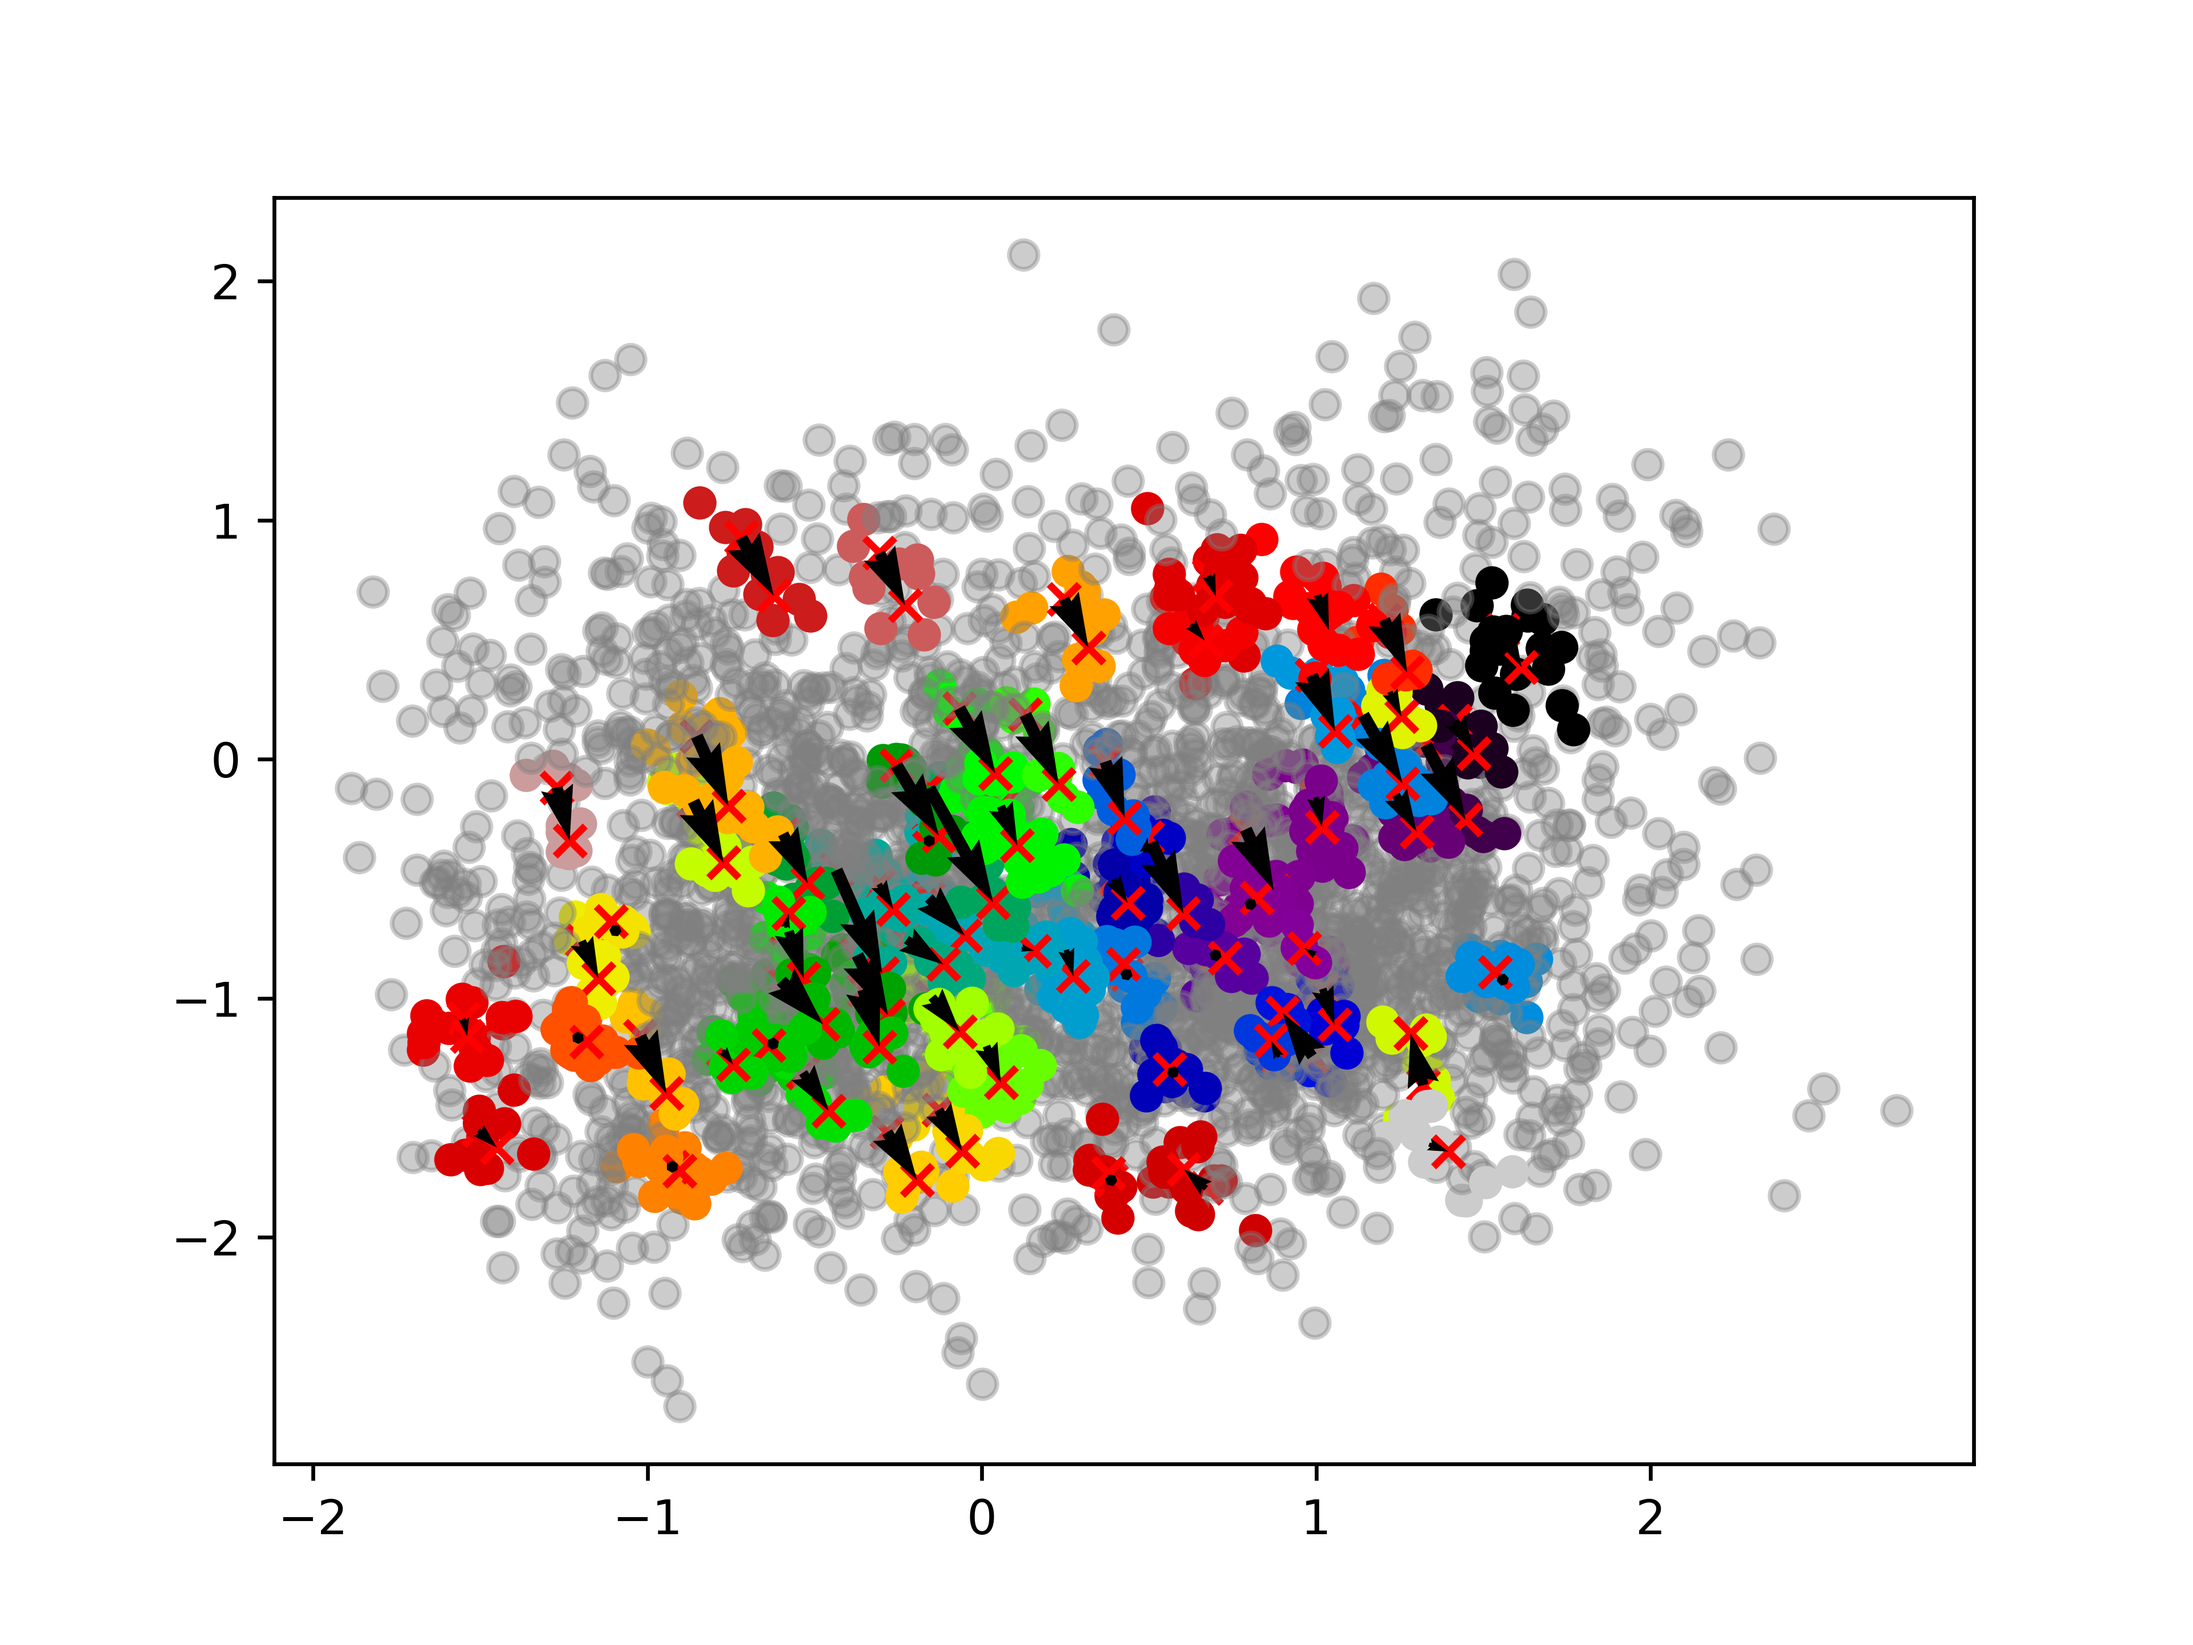
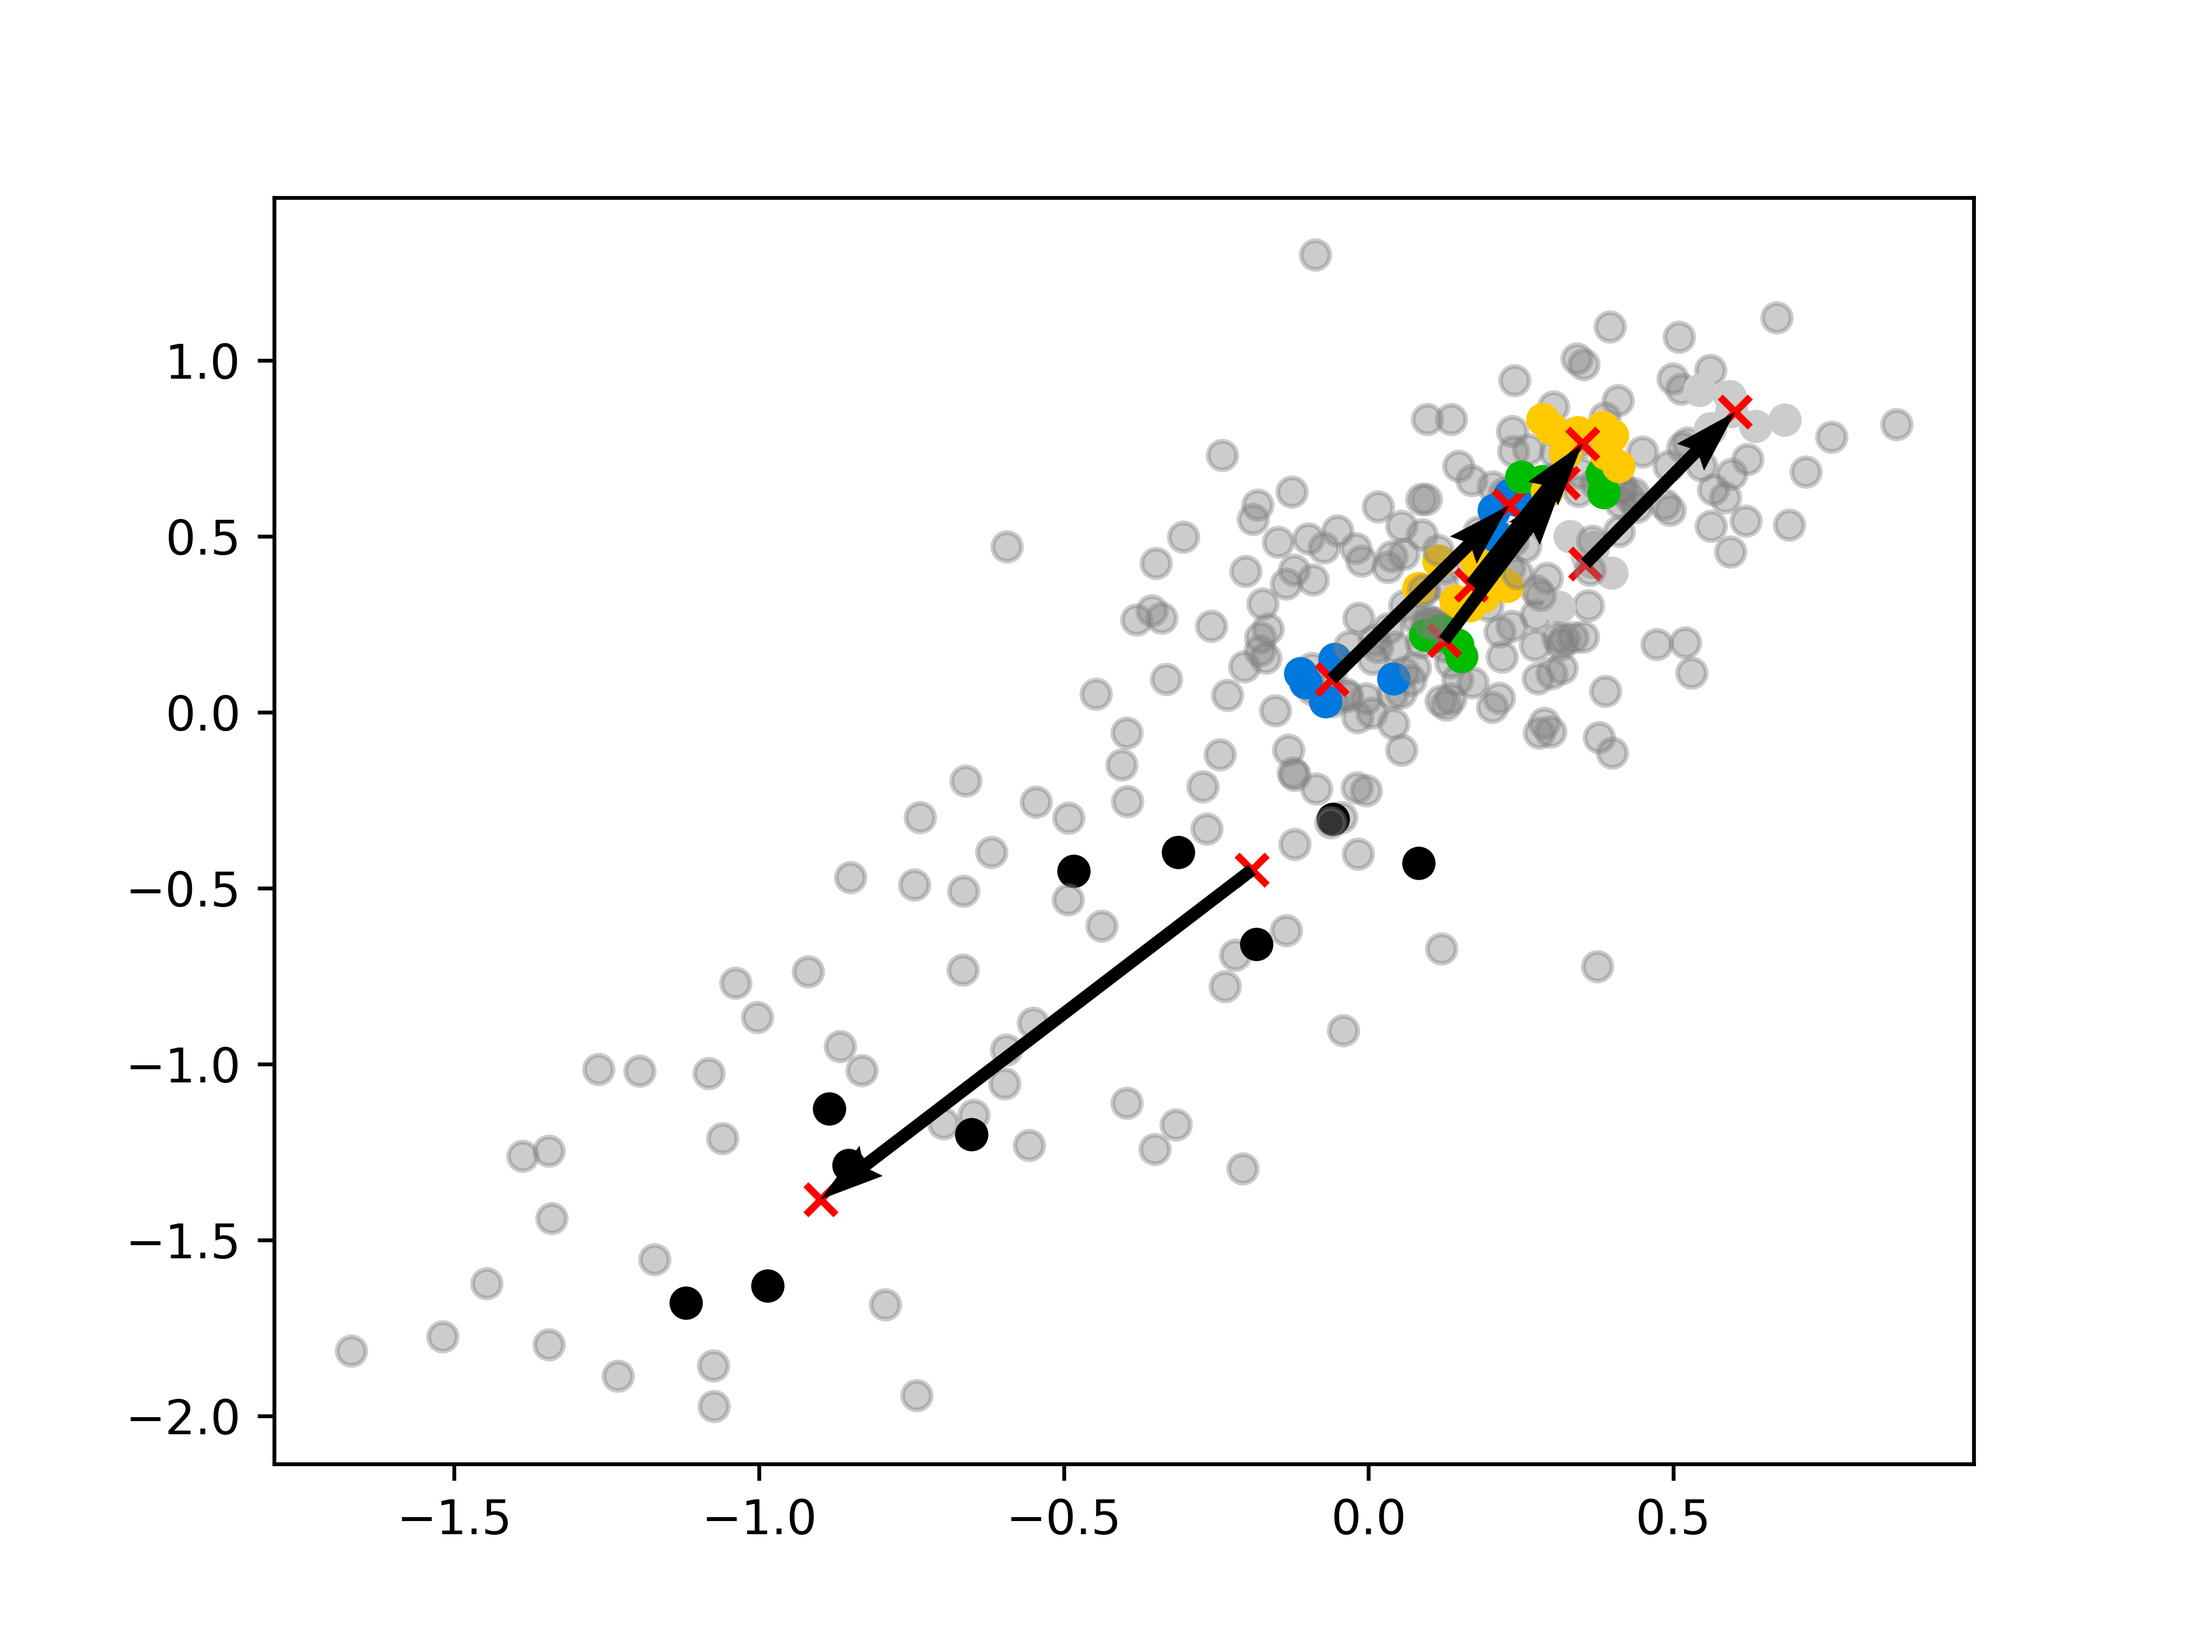
Review cluster plots

diff --git a/latex/thesis.tex b/latex/thesis.tex
@@ -852,11 +852,9 @@ $\hat{V}_0 = V_0 = E[(x_0-\hat{x}_0)(x_0-\hat{x}_0)^T]$  \;
 
 In this section we analyse the results from fittomg our model on $15947$ alien species invasions from $1850$ to $2010$, as described in Section \ref{sec:dataset}. In the dataset there are $1724$ species and $153$ regions. To report the results in the most clear way, we decided to distinguish the region and spaces nodes in the latent space. In Fig. \ref{fig:latentspace_config} the initial and final configuration of the latent space are reported for species and regions. 
 
-%TODO plot of just a couple of nodes to show trajectories  
-Unfortunately, due to the high number of nodes, it is hard to see the evolution of the latent space. In Fig. we focus on a set of ...
+Unfortunately, due to the high number of nodes, it is hard to see the evolution of the latent space. In Fig. \ref{fig:latentspace_afew} we focus on a set of 25 randomly chosen nodes to highlight the dynamics of nodes in the latent space. The nodes that tend to have a similar behaviour (i.e. have the tendency to co-invade) will move towards each other. In contrast, nodes that express a contrary behaviour will push each other further. The black arrows show the trajectory in time. There are 17 timesteps in total (the years from 1850 to 2010). Some trajectories are linear and others are elliptic. Species that move with the same trajectory in the latent space will have a tendency to co-invade regions, similarly, regions that move with the same trajectory are more likely to be invaded by the same group of species.
 
 \begin{figure}[ht] 
-  \label{ fig7} 
   \begin{minipage}[b]{0.5\linewidth}
     \centering
     \includegraphics[width=\linewidth]{latentspace_species.png} 
@@ -871,10 +869,24 @@ Unfortunately, due to the high number of nodes, it is hard to see the evolution 
 \label{fig:latentspace_config}
 \end{figure}
 
-In Fig. \ref{fig:trajectories_species} and \ref{fig:trajectories_region} the trajectories in the latent space by 100 randomly selected species and regions are reported. A in-depth look at these trajectories suggest that there are patterns in the movements of region and species in the latent space. We now focus our interest into analysing these clusters. 
 
-%TODO our findings are in agreement with lady's paper
-%The number of alien species found in a particular region. Both plants and insects were significantly affected by the number of species that have already invaded a certain region. However, whereas plants were recorded more frequently in regions already invaded by other plants, insects were less frequently recorded in regions that had already been invaded by other in- sects. The effects were nonetheless very small in both cases, i.e., affecting the hazard by 0.3% per invasion in the opposite direction.
+\begin{figure}[ht] 
+  \label{ fig7} 
+  \begin{minipage}[b]{0.5\linewidth}
+    \centering
+    \includegraphics[width=\linewidth]{latentspace_afew_species.png} 
+    \vspace{4ex}
+  \end{minipage}%%
+  \begin{minipage}[b]{0.5\linewidth}
+    \centering
+    \includegraphics[width=\linewidth]{latentspace_afew_region.png} 
+    \vspace{4ex}
+  \end{minipage}  
+\caption{A set of 25 randomly chosen species (left) and regions (right) and their dynamics in the latent space.}
+\label{fig:latentspace_afew}
+\end{figure}
+
+In Fig. \ref{fig:trajectories_species} and \ref{fig:trajectories_region} the trajectories in the latent space by 100 randomly selected species and regions are reported. A in-depth look at these trajectories suggest that there are patterns in the movements of region and species in the latent space. We now focus our interest into analysing these clusters. 
 
 \begin{figure}[H]
     \centering
@@ -915,6 +927,10 @@ Applying OPTICS to the species and regions in the latent space detected 67 clust
 \label{fig:cluster_density}
 \end{figure}
 
+
+%TODO our findings are in agreement with lady's paper
+%The number of alien species found in a particular region. Both plants and insects were significantly affected by the number of species that have already invaded a certain region. However, whereas plants were recorded more frequently in regions already invaded by other plants, insects were less frequently recorded in regions that had already been invaded by other in- sects. The effects were nonetheless very small in both cases, i.e., affecting the hazard by 0.3% per invasion in the opposite direction.
+
 %TODO
 %\begin{figure}[H]
 %    \centering
@@ -927,7 +943,7 @@ Applying OPTICS to the species and regions in the latent space detected 67 clust
   \label{ fig7} 
   \begin{minipage}[b]{0.5\linewidth}
     \centering
-    \includegraphics[width=\textwidth]{latentspace_cluster_region.png}
+    \includegraphics[width=\textwidth]{latentspace_cluster_species.png}
     \vspace{4ex}
   \end{minipage}%%
   \begin{minipage}[b]{0.5\linewidth}
